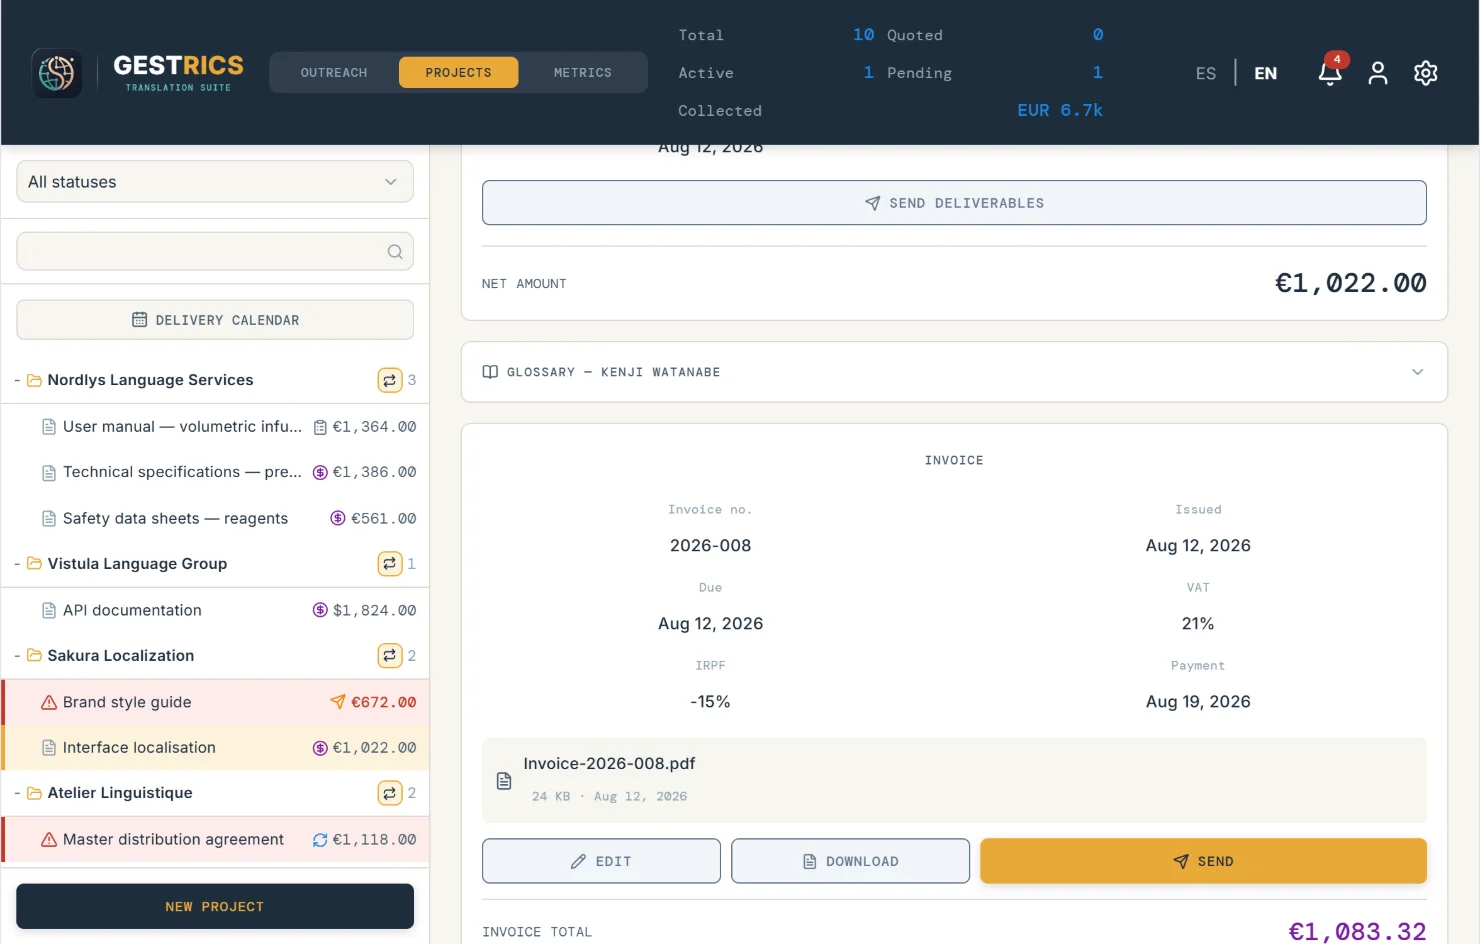
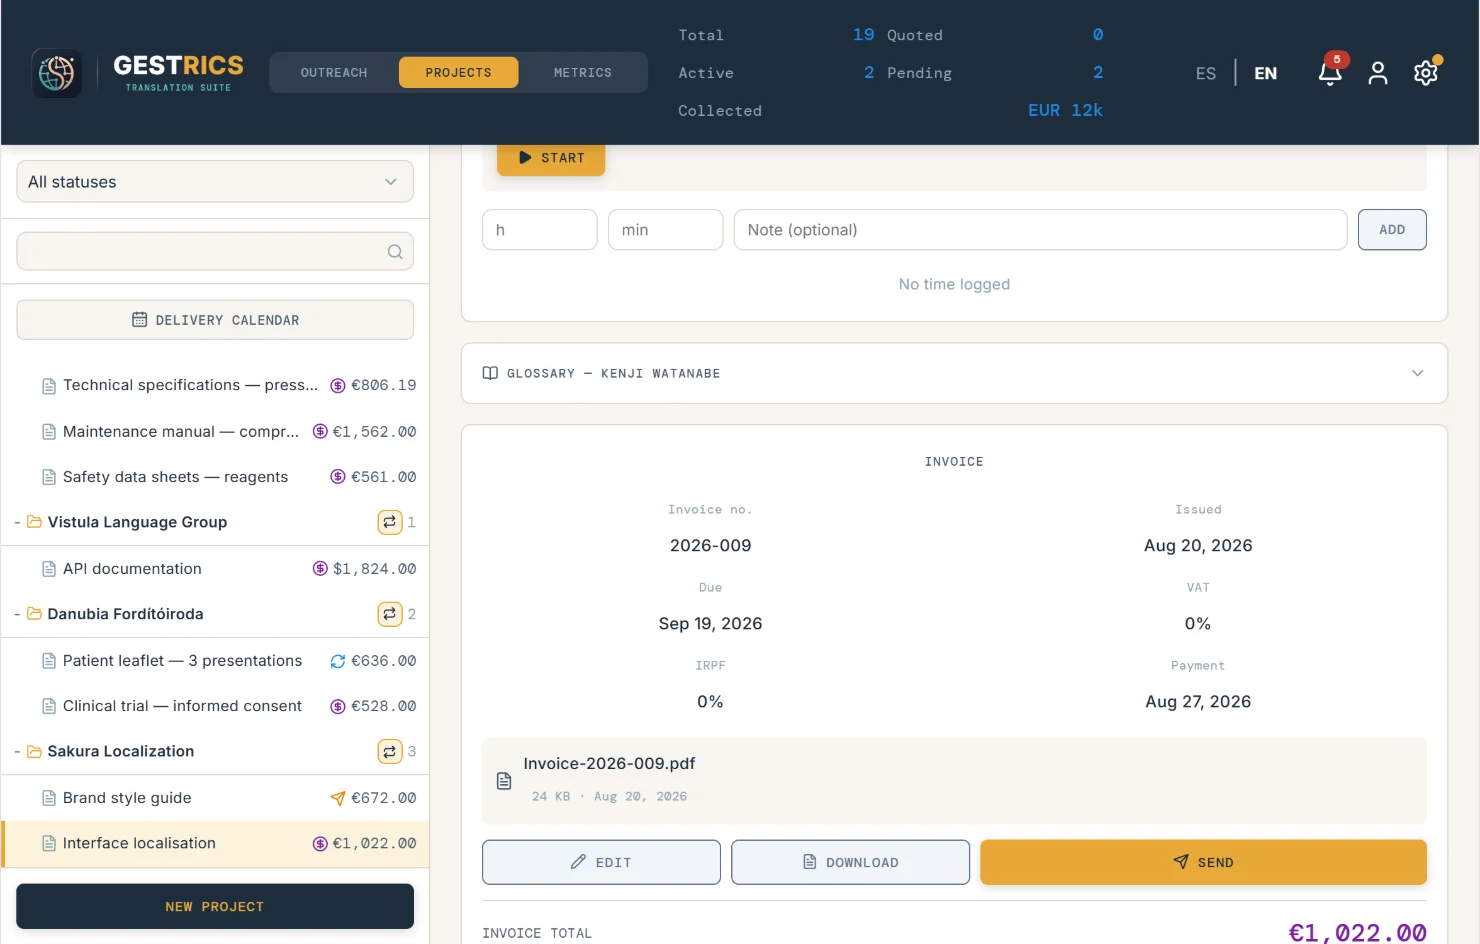
Capturas desde una carpeta desechable, con una demostración más rica
- sembrar-demo.mjs exige GESTRICS_DB y se niega a escribir en la base de
  pruebas de %APPDATA%\gestrics, que no se borra y lleva el correo real del
  traductor. Siembra 16 contactos, 19 proyectos, 14 facturas y 6 gastos con
  fechas contadas desde hoy; el importe del proyecto CAT sale de su desglose
  (antes 1386 € sobre un desglose que sumaba 806,19); deja la marca
  demo_capturas.
- capturar.mjs y grabar-demo.mjs abortan si el backend no tiene esa marca, y
  capturar.mjs oculta la franja del periodo de prueba, como el vídeo.
- El rótulo del gráfico inglés es «COLLECTED BY MONTH»: con «PER MONTH» la
  captura de Metrics no bajaba hasta el gráfico.
- Capturas rehechas en los dos idiomas con el procedimiento nuevo (README).

diff --git a/scripts/README.md b/scripts/README.md
@@ -26,27 +26,38 @@ explica en detalle; el resumen es que la aplicación congela sus plantillas
 heredadas en cuanto detecta que hay contactos, y esas plantillas llevan el
 nombre y la biografía reales.
 
-1. Parar el backend.
-2. Borrar `%APPDATA%\gestrics\outreach-studio.db`.
-3. Arrancar el backend: crea la base vacía, con las plantillas genéricas.
-4. **Con la base todavía sin contactos**, marcar los centinelas:
+**Siempre contra una carpeta DESECHABLE, nunca contra `%APPDATA%\gestrics\`.**
+Esa es la base de pruebas del traductor que desarrolla la aplicación: no se
+borra, y sus datos de prueba llevan su correo real. `sembrar-demo.mjs` se niega
+a escribir en ella, y `capturar.mjs` y `grabar-demo.mjs` abortan si el backend
+del 3001 no tiene la marca `demo_capturas` que deja la siembra.
+
+1. Arrancar el backend aislado: `node ../outreach-studio/backend/scripts/backend-aislado.cjs`
+   (en el repositorio de la aplicación también es la configuración
+   `backend-aislado` de `.claude/launch.json`). Puerto 3001, datos en
+   `%TEMP%\gestrics-mirar`, que crea vacía, con las plantillas genéricas.
+2. **Con la base todavía sin contactos**, marcar los centinelas:
    ```
    node ../outreach-studio/scripts/dev-skip-first-run.mjs
    curl -X PUT -H "Content-Type: application/json" -d "{\"value\":true}"  http://localhost:3001/api/settings/migration_legacyTemplatesFrozen
    curl -X PUT -H "Content-Type: application/json" -d "{\"value\":\"ES\"}" http://localhost:3001/api/settings/translator_fiscalCountry
    ```
-5. Parar el backend.
-6. `node scripts/sembrar-demo.mjs es`
-7. Arrancar backend y front.
-8. `node scripts/capturar.mjs es`
-9. Repetir del 1 al 8 con `en`: la tanda inglesa necesita su propia siembra,
-   porque los títulos de los proyectos van en el idioma de la captura.
-10. **Borrar la base al terminar.** Son datos falsos y el contador de facturas
-    tiene que quedar en `-001`.
+3. Esperar unos segundos (el backend guarda en diferido) y pararlo.
+4. Sembrar, en PowerShell:
+   `$env:GESTRICS_DB = "$env:TEMP\gestrics-mirar\outreach-studio.db"` y
+   `node scripts/sembrar-demo.mjs es`. Dieciséis contactos, diecinueve
+   proyectos y catorce facturas, con fechas contadas hacia atrás desde hoy.
+5. Arrancar el backend aislado y el front.
+6. `node scripts/capturar.mjs es`
+7. Para `en`: parar el backend y repetir del 4 al 6 con `en` (los títulos van
+   en el idioma de la captura). La siembra vacía sus tablas antes de escribir,
+   y los centinelas ya están puestos.
+8. **Al terminar, borrar `%TEMP%\gestrics-mirar` y `%TEMP%\gestrics-capturas-edge`.**
 
-`capturar.mjs` comprueba antes de disparar que no haya datos personales en
-pantalla y aborta si los encuentra. Es una red de seguridad, no el método:
-el orden de arriba es el método.
+La franja del periodo de prueba (la carpeta desechable lo estrena) se oculta
+solo en la captura, igual que en el vídeo. `capturar.mjs` comprueba además que
+no haya datos personales en pantalla y aborta si los encuentra. Las dos son
+redes de seguridad, no el método: el orden de arriba es el método.
 
 ### Las versiones WebP, que son las que de verdad se sirven
 
